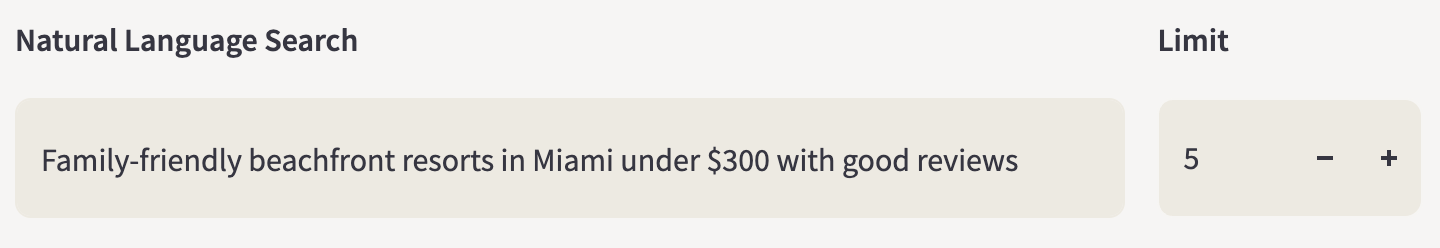
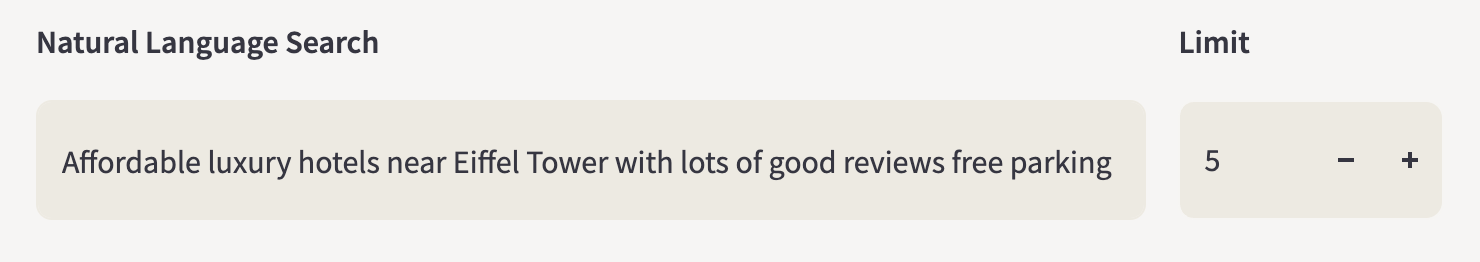
add visuals and change text

diff --git a/qdrant-landing/content/blog/superlinked-multimodal-search.md b/qdrant-landing/content/blog/superlinked-multimodal-search.md
@@ -1,5 +1,5 @@
 ---
-title: "How to Build a Hotel Search App with Multimodal Vector Embeddings"
+title: "Building a Hotel Search App with Superlinked's Multimodal Vector Embeddings"
 draft: false
 short_description: "Transform hotel search with multi-modal vector embeddings, combining text, price, ratings, and amenities for intelligent results."
 description: "Discover how multimodal vector search revolutionizes hotel discovery by understanding complex queries with text, numerical, and categorical data."
@@ -23,19 +23,28 @@ tags:
 
 ## Introduction
 
-In the age of AI, search has undergone a radical transformation. Users no longer want to meticulously craft keyword combinations; they want to express their desires in **natural language** and receive precisely tailored results. 
+The proliferation of AI has changed how people use search for products, services or education. The general public is getting used to expressing their desires in **natural language**, while expecting to receive precise and tailored results. 
 
-*"Family-friendly beachfront resorts in Miami under $300 with good reviews"* isn't just a search query; it's a complex set of interrelated preferences spanning multiple data types.
+Let's say you are trying to book a hotel in Paris, and you have some very basic criteria:
 
 ![superlinked-search](/blog/superlinked-multimodal-search/superlinked-search.png)
 
-In this blog, we'll show you how we built [**The Hotel Search Demo**](https://hotel-search-recipe.superlinked.io/). 
+*"Affordable luxury hotels near Eiffel Tower with lots of good reviews and free parking."* isn't just a search query. **Behind the scenes** - it is a complex set of interrelated preferences spanning multiple data types.
 
-This app demonstrates how Qdrant and Superlinked can solve real-world challenges in search. We'll teach you how to combine **textual understanding**, **numerical reasoning**, and **categorical filtering** into a seamless experienc that modern users expect. 
+> In this blog, we'll show you how we built [**The Hotel Search Demo**](https://hotel-search-recipe.superlinked.io/). 
+
+![superlinked-hotel-search](/blog/superlinked-multimodal-search/superlinked-hotel-search.png)
+
+What's really cool is that this demo breaks down your natural language query into very precise parameters. As you type in your question at the top, you can observe the query parameters change in the left sidebar.
+
+In this blog, we'll show you how Qdrant and Superlinked can be used to combine **textual understanding**, **numerical reasoning**, and **categorical filtering** into a seamless search experience that modern users expect. 
+
 
 ## Core Components
 
+FILIP PLEASE EXPLAIN THE APP ARCHITECTURE
 
+![superlinked-architecture](/blog/superlinked-multimodal-search/superlinked-architecture.png)
 
 ### 1. Vector Spaces: The Building Blocks of Intelligent Search
 
@@ -75,7 +84,10 @@ rating_count_space = sl.NumberSpace(
 )
 ```
 
-What makes this powerful is that each space properly preserves the semantic relationships within its domain. Prices are embedded to maintain their proportional relationships, text embeddings capture semantic meanings, and ratings preserve their relative quality indicators - all while allowing these different spaces to be combined into a cohesive search experience.
+What makes this powerful is that each space properly preserves the semantic relationships within its domain - all while allowing these different spaces to be combined into a cohesive search experience.
+- **Prices** are embedded to maintain their proportional relationships.
+- **Text** embeddings capture semantic meanings.
+- **Ratings** preserve their relative quality indicators 
 
 ### 2. Multimodal Vector Search: The Full Picture
 
@@ -128,40 +140,49 @@ query = (
     .with_natural_query(natural_query=sl.Param("natural_query"))
 )
 ```
+### Breaking Down the Query
 
-This enables queries like "affordable luxury hotels in Paris with spa" to be automatically translated into:
+![superlinked-query](/blog/superlinked-multimodal-search/superlinked-query.svg)
 
-- A text similarity search for "luxury" and "spa" concepts
-- Appropriate weighting for price (lower range)
-- Hard filtering for "Paris" location
-- Potential filtering for spa amenities
+This setup enables queries like *"Affordable luxury hotels near Eiffel Tower with lots of good reviews and free parking."* to be automatically translated into:
+
+- A text similarity search for **"luxury"** and **"Eiffel Tower"** concepts
+- Appropriate weighting for **"affordable" price** (lower range)
+- Hard filtering for **"free parking"** as an amenity
+- Search for **"lots" (rating count) + good reviews (rating)**
 
 Unlike systems that rely on reranking after retrieval (which can miss relevant results if the initial retrieval is too restrictive) or metadata filters (which convert fuzzy preferences like "affordable" to rigid boundaries), this approach maintains the nuance of the search throughout the entire process.
 
 ### 4. Hybrid Search Reimagined: Solving the Modern Search Problem
 
-Today's search landscape is dominated by discussions of hybrid search - the combination of keyword matching for precision with vector search for semantic understanding. The Hotel Search Demo takes this concept further by implementing a multimodal hybrid search method that spans not just text retrieval methods but entire data domains.
+Today's search landscape is dominated by discussions of hybrid search - the combination of keyword matching for precision with vector search for semantic understanding. The hotel search demo takes this concept further by implementing a multimodal hybrid search method that spans not just text retrieval methods but entire data domains.
 
 In the hotel search demo, we see hybrid search reimagined across multiple dimensions:
 - Text hybrid search: Combining exact matching (for city names, amenity keywords) with semantic similarity (for concepts like "luxury" or "family-friendly")
 - Numerical hybrid search: Blending exact range filters (minimum/maximum price) with preference-based vector similarity (for concepts like "affordable" or "high-rated")
 - Categorical hybrid search: Integrating hard categorical constraints (must be in Paris) with soft preferences (prefer hotels with specific amenities)
 
-This multi-dimensional hybrid approach solves critical problems that plague conventional search systems:
+This multi-dimensional hybrid approach solves challenges facing conventional search systems:
 
 1. Single-modal vector search fails when queries span multiple data types
-2. Traditional hybrid search still separates keyword and vector components, making it difficult to weight them appropriately
+2. Traditional hybrid search still separates keyword and vector components, which means they have to be weighed appropriately
 3. Separate storage per attribute forces complex result reconciliation that loses semantic nuance
-4. Pure filtering approaches convert preferences into binary decisions, losing the "strength" of preference
-5. Re-ranking strategies suffer from poor initial retrieval, especially with broad queries
+4. Pure filtering approaches convert preferences into binary decisions, missing the "strength" of preference
+5. Re-ranking strategies may lead to weaker initial retrieval, especially with broad queries
 
 This unified approach maintains the semantic relationships of all attributes in a multi-dimensional search space, where preferences become weights rather than filters, and where hard constraints and soft preferences seamlessly coexist in the same query.
 
 The result is a search experience that feels intuitive and "just works" - whether users are looking for "pet-friendly boutique hotels with good reviews near the city center" or "affordable family suites with pool access in resort areas" - because the system understands both the semantics and the relationships between different attributes of what users are asking for.
 
-### Results
+> As search expectations continue to evolve, this multimodal and multidimensional hybrid search approach represents not just an incremental improvement but a fundamental rethinking of how search should work. 
 
-As search expectations continue to evolve, this multimodal and multidimensional hybrid search approach represents not just an incremental improvement but a fundamental rethinking of how search should work. The Hotel Search Demo showcases this vision in action, a glimpse into a future where search understands not just the words we use, but the complex, nuanced preferences they represent.
+The hotel search demo showcases this vision in action, a glimpse into a future where search understands not just the words we use, but the complex, nuanced preferences they represent.
+
+## Hosting the Demo
+
+FILIP - WE NEED TO SHOW PEOPLE HOW TO HOST IN YOUR REPO
+
+![superlinked-localhost](/blog/superlinked-multimodal-search/superlinked-localhost.png)
 
 ## Watch the Video
 
